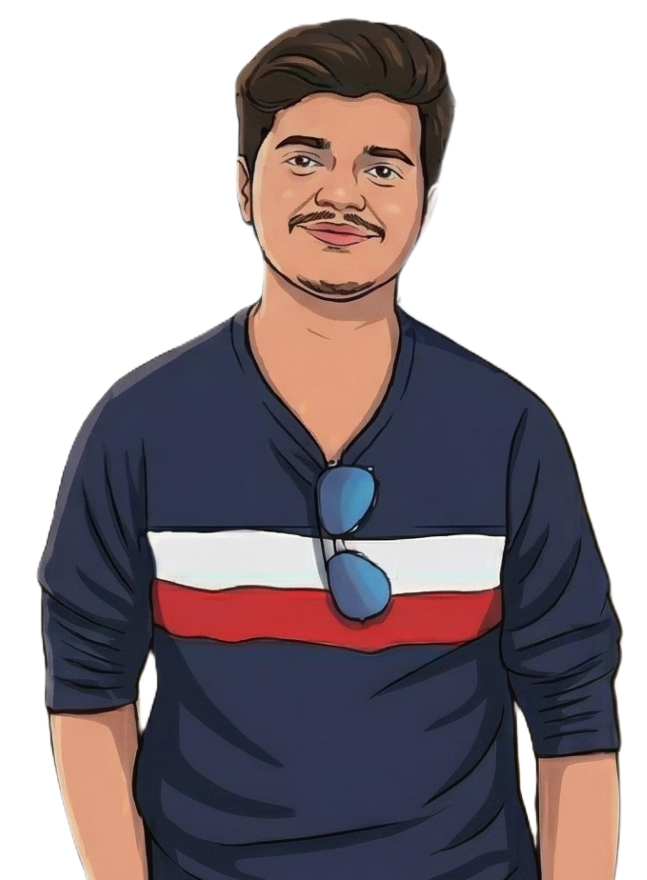
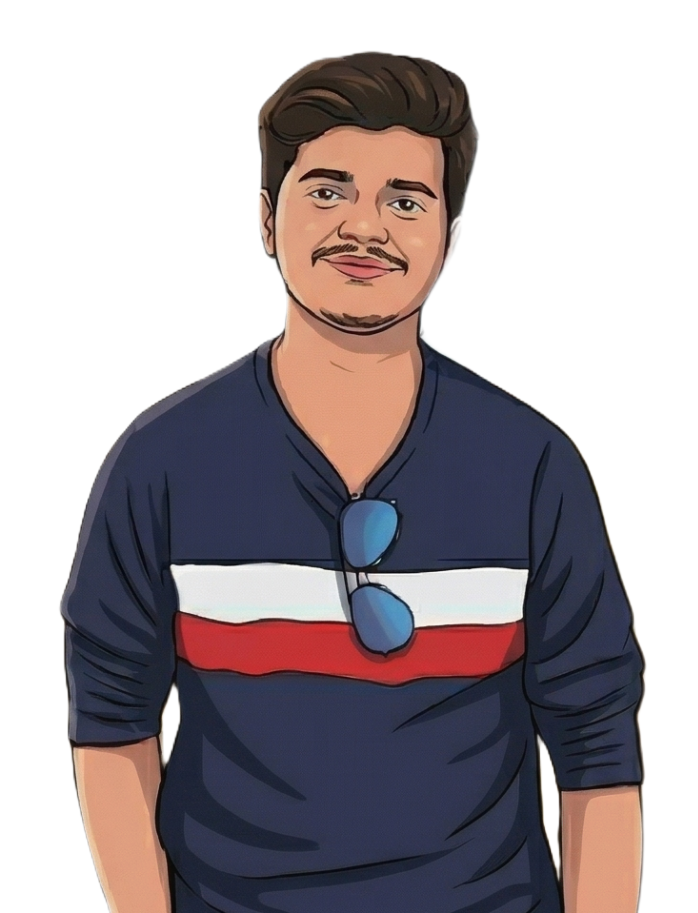
release

Changed region(s): [[0.0309, 0.0, 0.9892, 1.0], [0.2782, 0.8284, 0.3091, 0.8591]]

diff --git a/assets/includes/footer.html b/assets/includes/footer.html
@@ -1,13 +1,17 @@
 <footer class="site-footer">
     <div class="footer-container">
-      <div class="footer-section">
-        <h4>NetApp Hub</h4>
-        <p>A comprehensive resource for NetApp automation built by <strong>Vadiraj Tantri</strong>.</p>
-        <div class="footer-social">
-          <a href="https://www.linkedin.com/in/vadiraja-tantri-m-s" target="_blank" title="LinkedIn">💼</a>
-          <a href="mailto:vadirajatantri@outlook.com" title="Email">✉</a>
+        <div class="footer-section">
+            <h4>NetApp Hub</h4>
+            <p>A comprehensive resource for NetApp automation built by <strong>Vadiraj Tantri</strong>.</p>
+            <div class="footer-social" style="display: flex; align-items: center; gap: 16px; margin-top: 16px;">
+              <a href="https://www.linkedin.com/in/vadiraja-tantri-m-s" target="_blank" title="LinkedIn" style="display: flex; align-items: center;">
+                <svg xmlns="http://www.w3.org/2000/svg" width="22" height="22" viewBox="0 0 24 24" fill="currentColor">
+                  <path d="M19 0h-14c-2.761 0-5 2.239-5 5v14c0 2.761 2.239 5 5 5h14c2.762 0 5-2.239 5-5v-14c0-2.761-2.238-5-5-5zm-11 19h-3v-11h3v11zm-1.5-12.288c-.966 0-1.75-.79-1.75-1.764s.784-1.764 1.75-1.764 1.75.79 1.75 1.764-.783 1.764-1.75 1.764zm13.5 12.288h-3v-5.604c0-3.368-4-3.113-4 0v5.604h-3v-11h3v1.765c1.396-2.586 7-2.777 7 2.476v6.759z"/>
+                </svg>
+              </a>
+              <a href="mailto:vadirajatantri@outlook.com" title="Email" style="font-size: 22px; display: flex; align-items: center; text-decoration: none;">✉</a>
+            </div>
         </div>
-      </div>
   
       <div class="footer-section">
         <h4>Documentation</h4>
@@ -32,7 +36,7 @@
       <div class="footer-section">
         <h4>Legal</h4>
         <ul>
-          <li><a href="privacy.html#privacy">Privacy Policy</a></li>
+          <li><a href="privacy.html#privacy-policy">Privacy Policy</a></li>
           <li><a href="privacy.html#fair-use">Fair Use & Disclaimer</a></li>
           <li><a href="privacy.html#liability">Liability Disclaimer</a></li>
         </ul>
@@ -40,7 +44,7 @@
     </div>
   
     <div class="footer-bottom">
-      <p>&copy; 2026 <strong>Vadiraj Tantri</strong>. All rights reserved. NetApp is a trademark of NetApp, Inc.</p>
+      <p>&copy; 2026 <strong>Vadiraj Tantri M S</strong>. All rights reserved. NetApp is a trademark of NetApp, Inc.</p>
       <p style="font-size: 12px; color: var(--text-muted); margin-top: 8px;">
         Built with ❤ for NetApp Engineers | Last Updated: March 2026
       </p>

diff --git a/assets/css/style.css b/assets/css/style.css
@@ -1648,21 +1648,54 @@ table tbody tr:hover {
   padding: 60px;
 }
 
+/* ===== POP-OUT PROFILE PICTURE EFFECT ===== */
 .profile-picture-container {
   position: relative;
-  width: 280px;
-  height: 280px;
+  width: 220px;
+  height: 220px;
+  background: transparent !important;
+  border: none !important;
+  box-shadow: none !important;
+  overflow: visible !important;
+  margin-top: 40px; /* Give room at the top for the floating head */
   flex-shrink: 0;
 }
 
+/* Background Circle with Gradient Fade */
+.profile-picture-container::before {
+  content: '';
+  position: absolute;
+  top: 0;  /* Back to full size */
+  left: 0; 
+  right: 0; 
+  bottom: 0;
+  background: var(--bg);
+  border-radius: 50%; 
+  box-shadow: 0 20px 50px rgba(61, 200, 160, 0.15), inset 0 -10px 20px rgba(0,0,0,0.5);
+  border: 1px solid var(--border2);
+  z-index: 0;
+
+  /* MAGIC: Fades the entire circle (background, border, AND shadow) to transparent at the top */
+  -webkit-mask-image: linear-gradient(to bottom, transparent 30%, black 55%);
+  mask-image: linear-gradient(to bottom, transparent 30%, black 55%);
+}
+
+/* The transparent character image */
 .profile-picture {
-  width: 100%;
-  height: 100%;
-  border-radius: 50%;
-  object-fit: cover;
-  border: none;
-  box-shadow: 0 20px 50px rgba(61, 200, 160, 0.3);
+  position: absolute;
+  bottom: 0;          /* Anchor to the exact bottom of the circle */
+  left: 0;
+  width: 100%;        /* Match the width of the circle exactly */
+  height: auto;
+  min-height: 100%;
+  
+  /* CRITICAL: This curves ONLY the bottom of the image to perfectly match the circle, 
+     hiding the square cut-off, but leaving the head free to break the top border! */
+  border-radius: 0 0 110px 110px !important; 
+  
+  z-index: 1; 
   transition: transform 0.3s ease;
+  transform-origin: bottom center; /* Image will grow upwards on hover, not downwards */
 }
 
 .profile-picture:hover {

diff --git a/about-me.html b/about-me.html
@@ -169,7 +169,7 @@
       <div class="philosophy-cards">
         <div class="philosophy-card">
           <div class="philosophy-title">Automate Everything</div>
-          <p>Manual work is error-prone and unscalable. If you're doing it twice, it should be automated.</p>
+          <p>Manual work is error-prone and unscalable. If you're doing it thrice, it should be automated.</p>
         </div>
         <div class="philosophy-card">
           <div class="philosophy-title">Document as You Go</div>
@@ -202,7 +202,9 @@
           </a>
           -->
           <a href="https://www.linkedin.com/in/vadiraja-tantri-m-s" target="_blank" class="connect-link">
-            <span class="connect-icon">💼</span>
+            <svg xmlns="http://www.w3.org/2000/svg" width="22" height="22" viewBox="0 0 24 24" fill="currentColor">
+                <path d="M19 0h-14c-2.761 0-5 2.239-5 5v14c0 2.761 2.239 5 5 5h14c2.762 0 5-2.239 5-5v-14c0-2.761-2.238-5-5-5zm-11 19h-3v-11h3v11zm-1.5-12.288c-.966 0-1.75-.79-1.75-1.764s.784-1.764 1.75-1.764 1.75.79 1.75 1.764-.783 1.764-1.75 1.764zm13.5 12.288h-3v-5.604c0-3.368-4-3.113-4 0v5.604h-3v-11h3v1.765c1.396-2.586 7-2.777 7 2.476v6.759z"/>
+              </svg>
             <span>LinkedIn</span>
           </a>
           <a href="mailto:vadirajatantri@outlook.com" class="connect-link">

diff --git a/python.html b/python.html
@@ -214,7 +214,7 @@ r.raise_for_status()
 
     <!-- Section 6: Aggregate Monitoring -->
     <section class="content-section">
-      <h2 class="section-title"  =id="aggregate-capacity-report"><span class="section-num" style="color:var(--accent-py);background:rgba(61,200,160,0.08);border-color:rgba(61,200,160,0.2)">06</span> Aggregate Capacity Report</h2>
+      <h2 class="section-title" id="aggregate-capacity-report"><span class="section-num" style="color:var(--accent-py);background:rgba(61,200,160,0.08);border-color:rgba(61,200,160,0.2)">06</span> Aggregate Capacity Report</h2>
       <div class="code-block">
         <div class="code-header">
           <span class="code-lang" style="color:var(--accent-py)">python</span>
@@ -236,7 +236,10 @@ r.raise_for_status()
       </div>
     </section>
 
+    <!--
     <footer class="page-footer">NetApp Hub · Python Automation</footer>
+    -->
+    <div id="footer-container"></div>
   </main>
 
   <script src="assets/js/utils.js"></script>

diff --git a/assets/js/utils.js b/assets/js/utils.js
@@ -11,3 +11,30 @@ document.addEventListener('click', (e) => {
     sidebar.classList.remove('open');
   }
 });
+
+// ===== DYNAMICALLY LOAD FOOTER =====
+function loadFooter() {
+  const footerContainer = document.getElementById('footer-container');
+  if (!footerContainer) return;
+
+  // Fetch the footer HTML
+  fetch('assets/includes/footer.html')
+    .then(response => {
+      if (!response.ok) {
+        throw new Error('Failed to load footer');
+      }
+      return response.text();
+    })
+    .then(html => {
+      footerContainer.innerHTML = html;
+    })
+    .catch(err => {
+      console.error('Error loading footer:', err);
+    });
+}
+
+// Run when the DOM is fully loaded
+document.addEventListener('DOMContentLoaded', () => {
+  loadFooter();
+  // ... any other init functions you already have here
+});

diff --git a/privacy.html b/privacy.html
@@ -36,7 +36,7 @@
   </nav>
   <button class="sidebar-toggle" onclick="toggleSidebar()">☰</button>
 
-  <main class="main-content">
+  <main class="main-content" id="privacy-policy">
     <header class="page-header">
       <div class="header-badge">Legal</div>
       <h1 class="page-title">Privacy Policy & Disclaimer</h1>

diff --git a/tips.html b/tips.html
@@ -260,7 +260,7 @@ echo "Open: https://&lt;cluster&gt;/docs/api"</code></pre>
       </div>
     </section>
 
-    <footer class="page-footer">NetApp Hub · Tips & Tricks</footer>
+    <div id="footer-container"></div>
   </main>
 
   <script src="assets/js/utils.js"></script>

diff --git a/get-started.html b/get-started.html
@@ -151,9 +151,7 @@
       </div>
     </section>
 
-    <footer class="page-footer">
-      NetApp Hub · Built for engineers, by an engineer
-    </footer>
+    <div id="footer-container"></div>
   </main>
 
   <script src="assets/js/utils.js"></script>

diff --git a/powershell.html b/powershell.html
@@ -231,7 +231,7 @@ public class TrustAll {
       </div>
     </section>
 
-    <footer class="page-footer">NetApp Hub · PowerShell Automation</footer>
+    <div id="footer-container"></div>
   </main>
 
   <script src="assets/js/utils.js"></script>

diff --git a/commands.html b/commands.html
@@ -71,7 +71,7 @@
       </div>
     </section>
 
-    <footer class="page-footer">NetApp Hub · Commands Reference</footer>
+    <div id="footer-container"></div>
   </main>
 
   <script src="assets/js/utils.js"></script>

diff --git a/index.html b/index.html
@@ -283,7 +283,7 @@
       </div>
     </section>
     -->
-
+    <div id="footer-container"></div>
   </main>
 
   <script src="assets/js/utils.js"></script>
